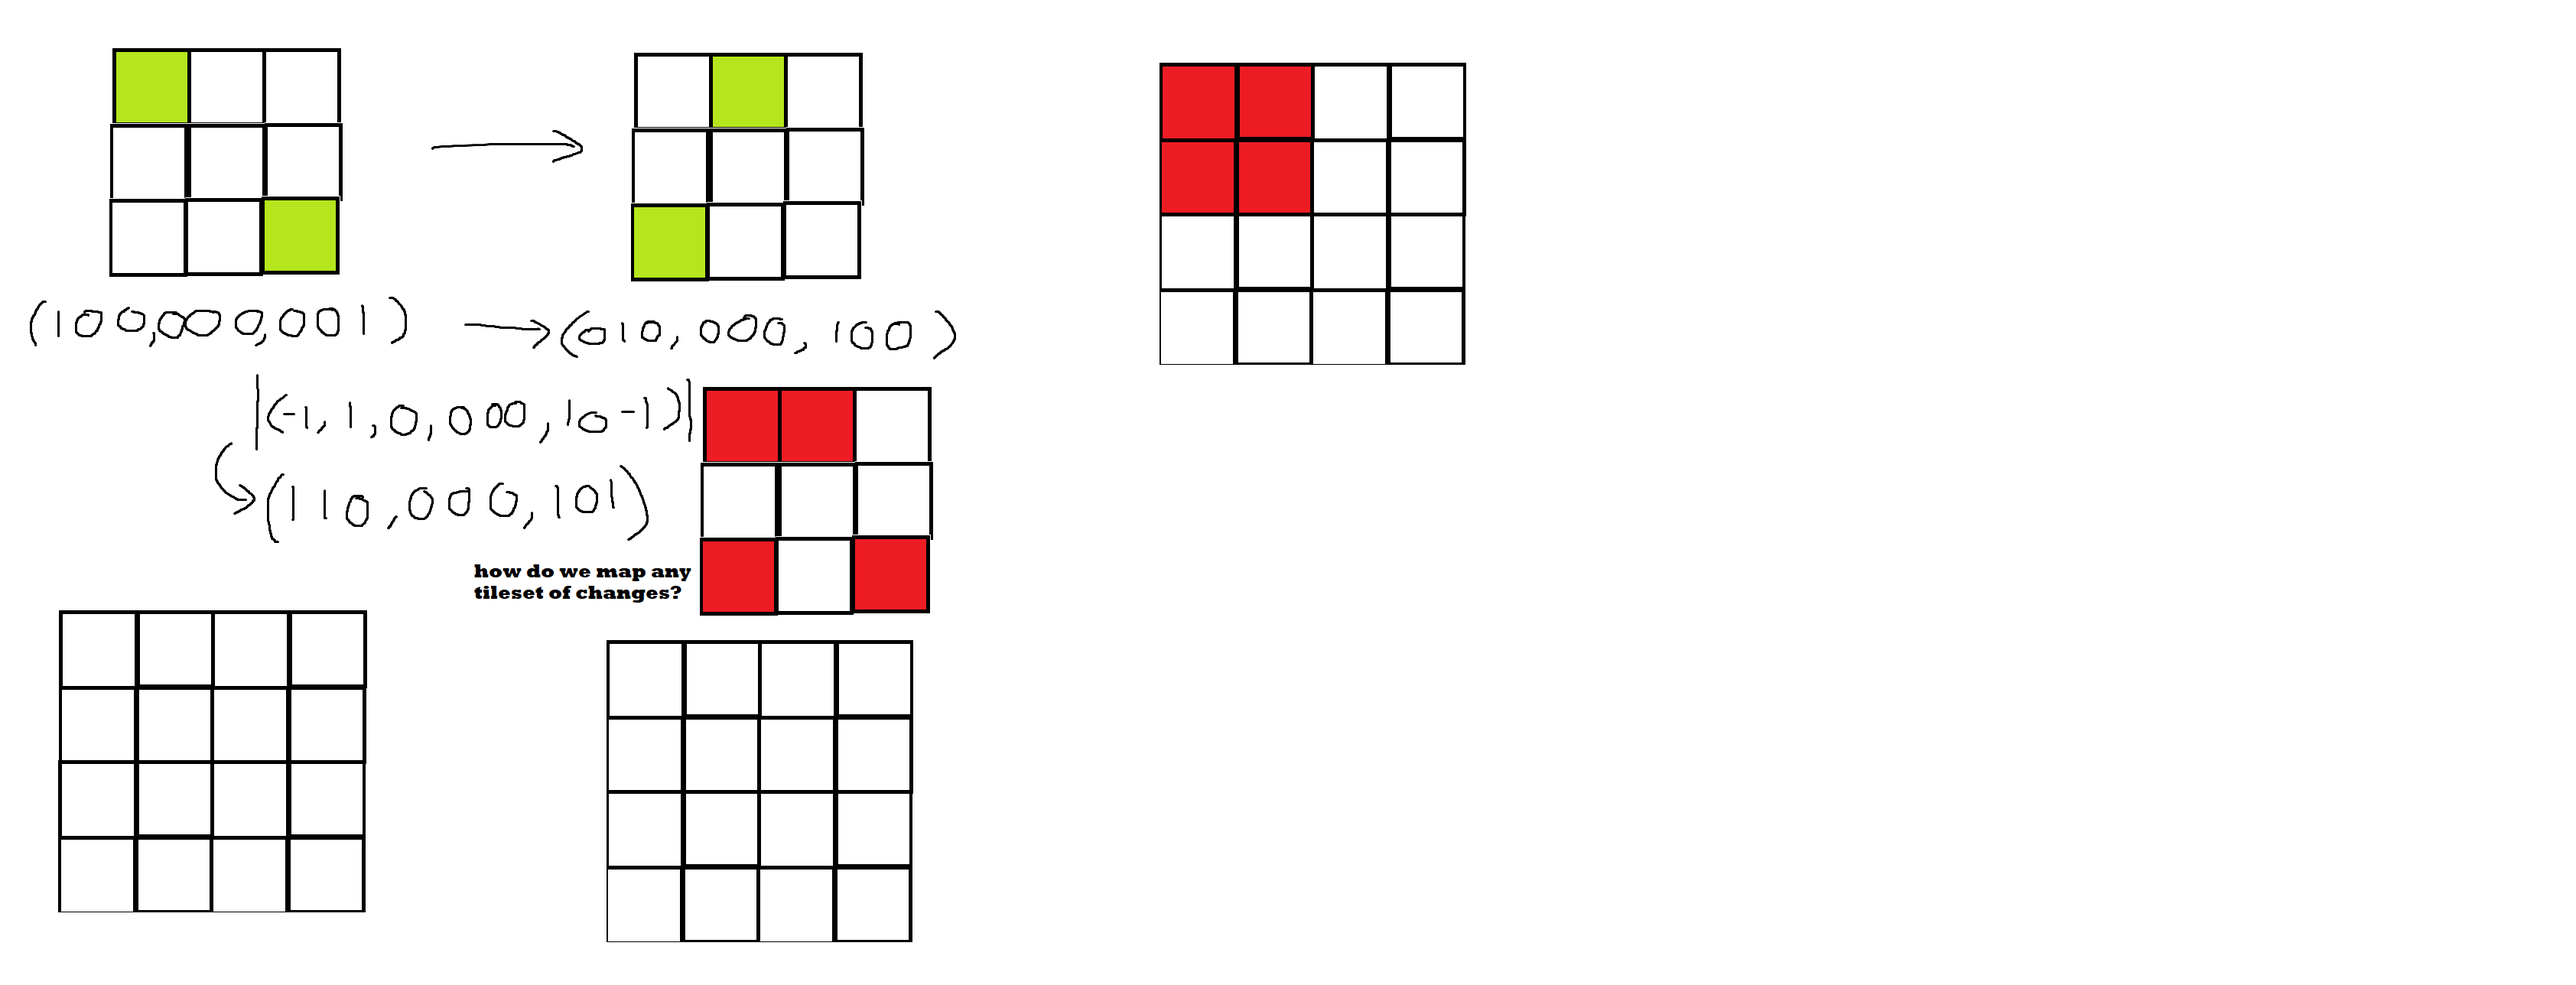
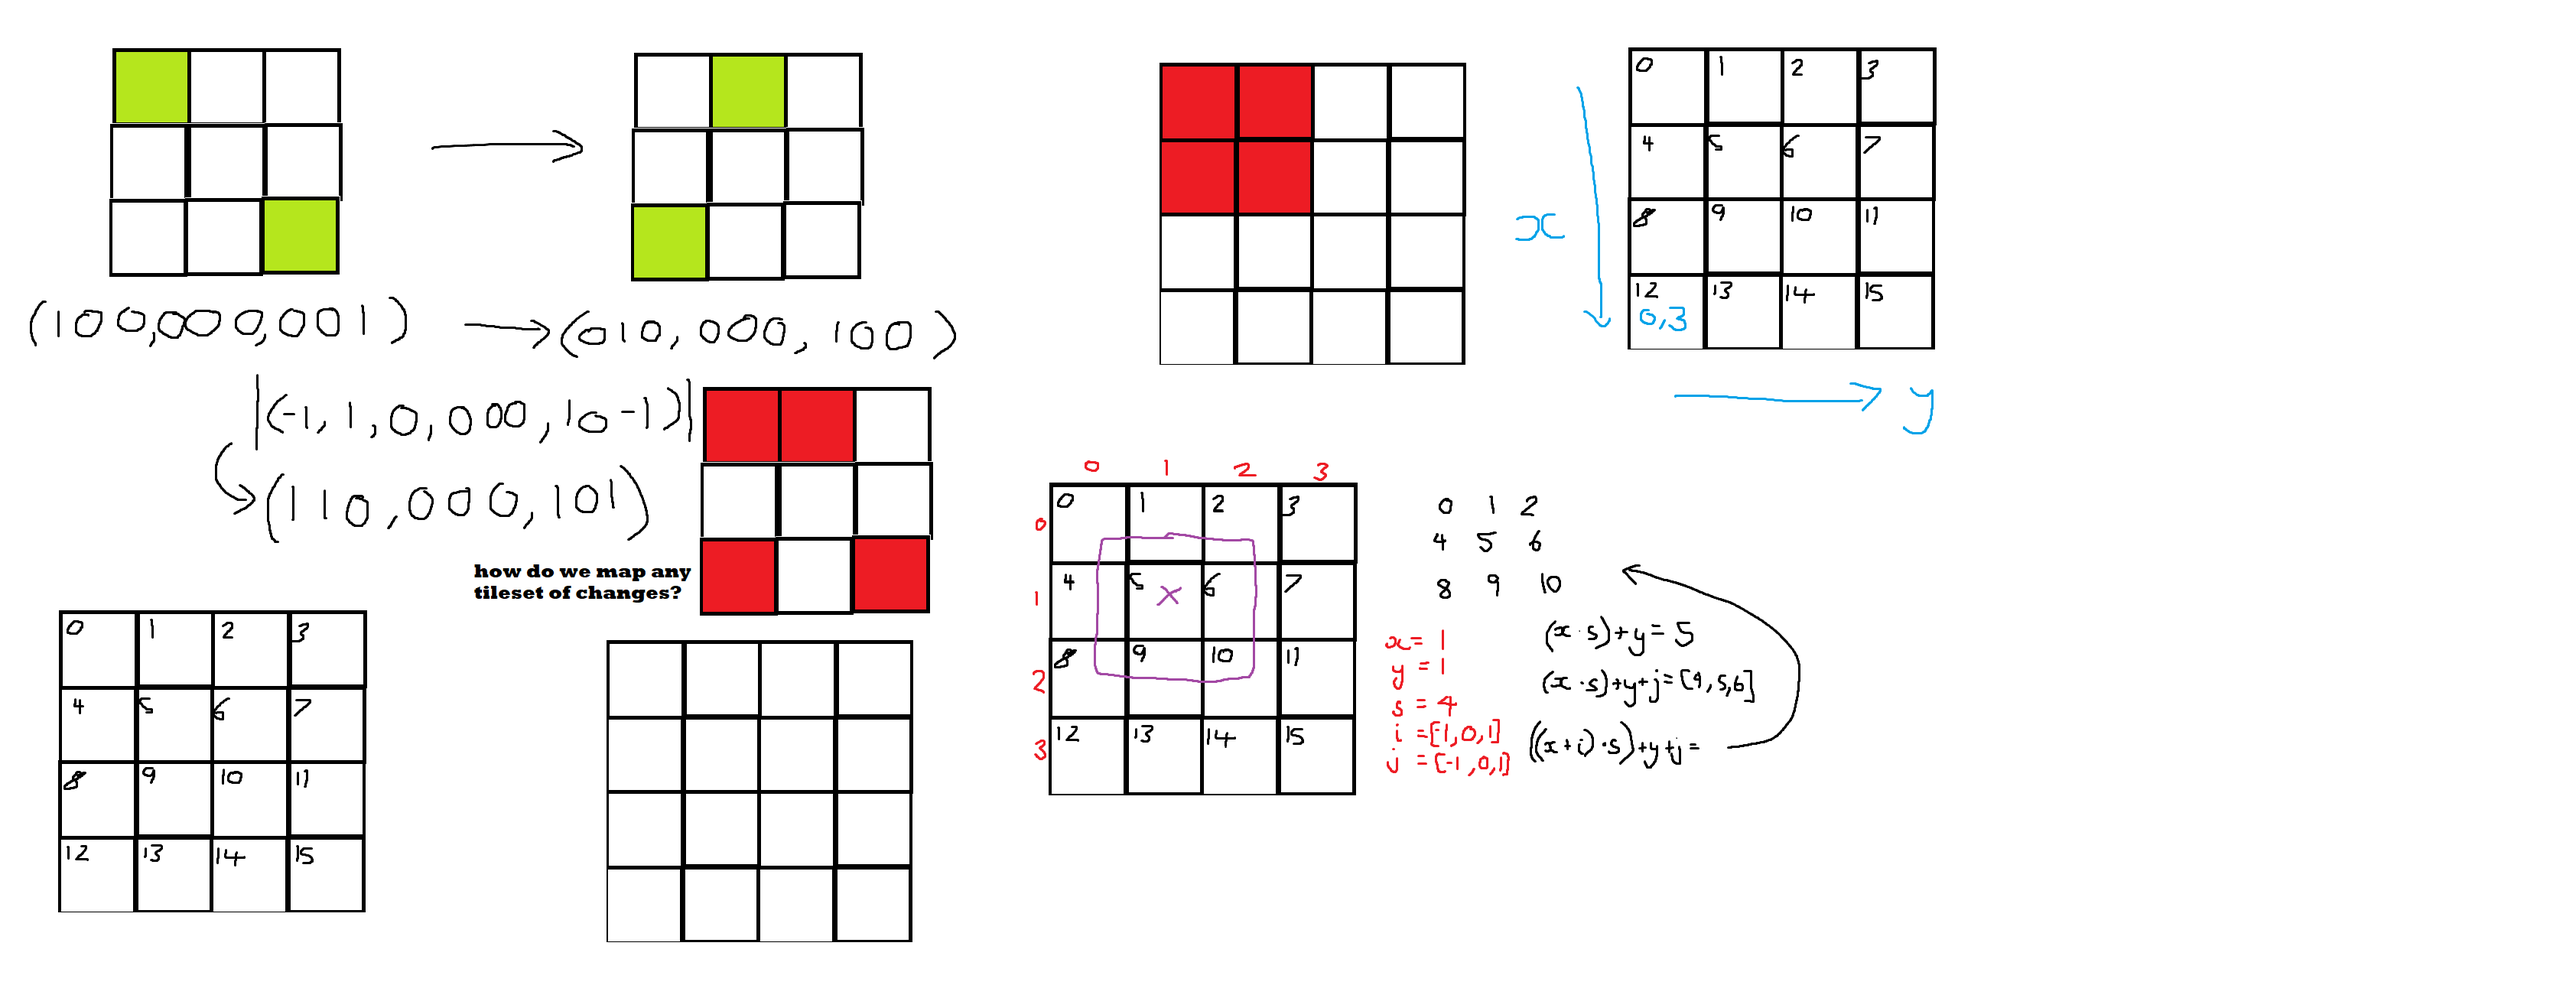
state mapping work

diff --git a/tileflip.js b/tileflip.js
@@ -2,9 +2,9 @@
 let grid_target, grid_active;
 let canvas_target, canvas_active;
 let tile_width;
-let grid_size = 5;
+let grid_size = 4;
 let inversion_size = 1;
-let move_stack = [];
+let move_stack = [], state_move_stack = [];
 let max_depth = 5;
 let solved = false;
 
@@ -140,8 +140,10 @@ function equateBoards()
 {
     console.log('solving...');
     solved = false;
-    resetActive();
-    recurseEquator(0, '');
+    //resetActive();
+    //recurseEquator(0, '');
+    invertStateTile(reduceBoardsToSolveMap(), 0, 3);
+
     updateEquationLabel();
 };
 
@@ -169,6 +171,48 @@ function invertTile(canvasName, x, y, inversionSize, addToMoveStack)
     }
 
     if (addToMoveStack) move_stack.push([canvasName, x, y, inversionSize]);
+    invertStateTile(reduceBoardsToSolveMap(), x, y);
+};
+
+
+function invertStateTile(state_diff, x, y)
+{
+    console.log('before: ' + x + ', ' + y);
+    console.log(state_diff);
+    for (var i = -1; i <= 1; i++) {
+        for (var j = -1; j <= 1; j++) {
+            let invertedTile_index = ((y + i) * grid_size) + x + j;
+            console.log(invertedTile_index);
+
+            if (invertedTile_index < 0 || invertedTile_index >= (grid_size * grid_size)) continue;
+            if (((i == -1) && (y % grid_size == 0)) || ((i == 1) && (y % grid_size == grid_size - 1))) continue;
+            if (((j == -1) && (x < grid_size)) || ((j == 1) && (x >= (grid_size * (grid_size - 1))))) continue;
+            state_diff[invertedTile_index] = 1 - state_diff[invertedTile_index];
+        }
+    }
+    
+    state_move_stack.push([x, y]);
+    console.log('after:');
+    console.log(state_diff);
+};
+
+
+function reduceBoardsToSolveMap()
+{
+    let state_diff = [];
+    
+    for (let i = 0; i < grid_size; i++) {
+        for (let j = 0; j < grid_size; j++) {
+            if (grid_active[j][i].fillColor.green == grid_target[j][i].fillColor.green) {
+                state_diff.push(0);
+            }
+            else {
+                state_diff.push(1);
+            }
+        }
+    }
+
+    return state_diff;
 };
 
 
